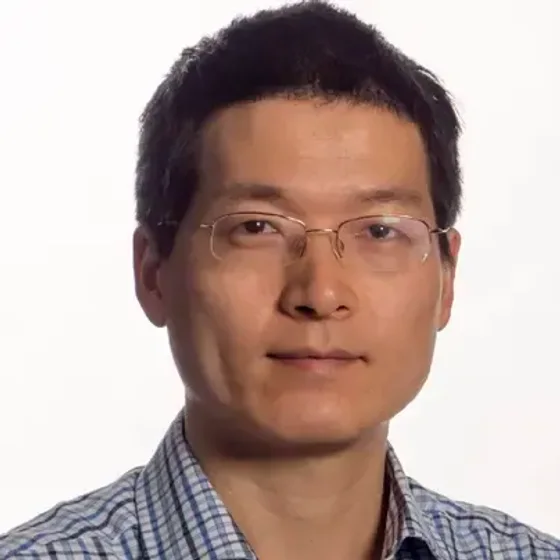
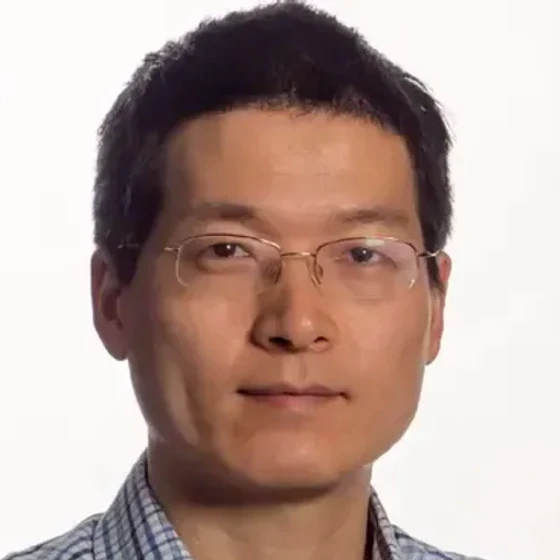
Retratos del mismo tamaño: recortes del informe de /ajustar
Mauricio pidió en la reunión del 2026-10-04 que las fotos de los expositores queden
similares entre sí. Daniel las encuadró en el panel con guías comunes (coronilla 17 %,
mentón 82 % del círculo) y pegó el informe; cada archivo es ahora su recorte cuadrado
llevado a 560x560 WebP q90. Siles no se tocó: ya cuadraba con las guías.

Recortes (izquierda, arriba, lado sobre el 560x560 anterior): Zussman 68,0,381; Du
51,0,509; Valenzuela 47,70,467; Siringo 81,43,394; Feick 28,22,505; Gutiérrez
108,39,329; Toledo 15,32,509. Todos acercan, así que interpolan: Gutiérrez (x1,7) y
Zussman (original de 260 px) quedan más blandos.

astro check 0 errores; verify:todo en verde; primera carga 173,2 kB sin cambio.

diff --git a/ESTADO.md b/ESTADO.md
@@ -38,7 +38,7 @@ postgrado…») se reemplazó por esto en `es.ts` y `en.ts`.
 | Poner logos que faltan | Hecho, **de internet y bajo responsabilidad de Mauricio** (enmienda de RF-22): ALMA (ESO), UPB (upb.edu) y Columbia University en lugar de CUSPS. De paso, USACH tiene variante oscura |
 | Foto de Mauricio como organizador | Hecho: franja «Dirige el seminario» con su retrato al final de «El seminario» (RF-23). Foto de su ficha en eie.pucv.cl |
 | Flyer tipo pancarta, largo, con fotos de expositores y Mauricio | Fuera del sitio. Falta medida y orientación |
-| Fotos de expositores de tamaño similar | Daniel lo trabajó en `/ajustar`; falta que pegue el **informe** («Copiar informe»): la instantánea vive en su navegador |
+| Fotos de expositores de tamaño similar | Hecho el 2026-10-05 desde el informe de `/ajustar` de Daniel: 7 retratos re-recortados (Siles queda igual) con guías de coronilla 17 % y mentón 82 %; cada archivo es el recorte indicado llevado a 560×560 WebP q90. Los recortes acercan, así que se interpola: Gutiérrez (lado 329 px, ×1,7) y Zussman (cuyo original ya era de 260 px) se ven más blandos. Si llegan originales mayores, conviene rehacerlos |
 
 ## Despliegues del 2026-10-02 · lo que está en vivo
 

diff --git a/specs/001-mejora-calidad/verification.md b/specs/001-mejora-calidad/verification.md
@@ -2,7 +2,7 @@
 
 Generado por `npm run verify`. **No editar a mano**: se sobrescribe en cada corrida.
 
-**Fecha:** 2026-10-05 · **Commit:** `dceaaa8`
+**Fecha:** 2026-10-05 · **Commit:** `49b680a`
 **Resultado:** todos los presupuestos cumplidos
 
 Método: axe-core sobre el build servido localmente, en 1440×900 y 390×844,
